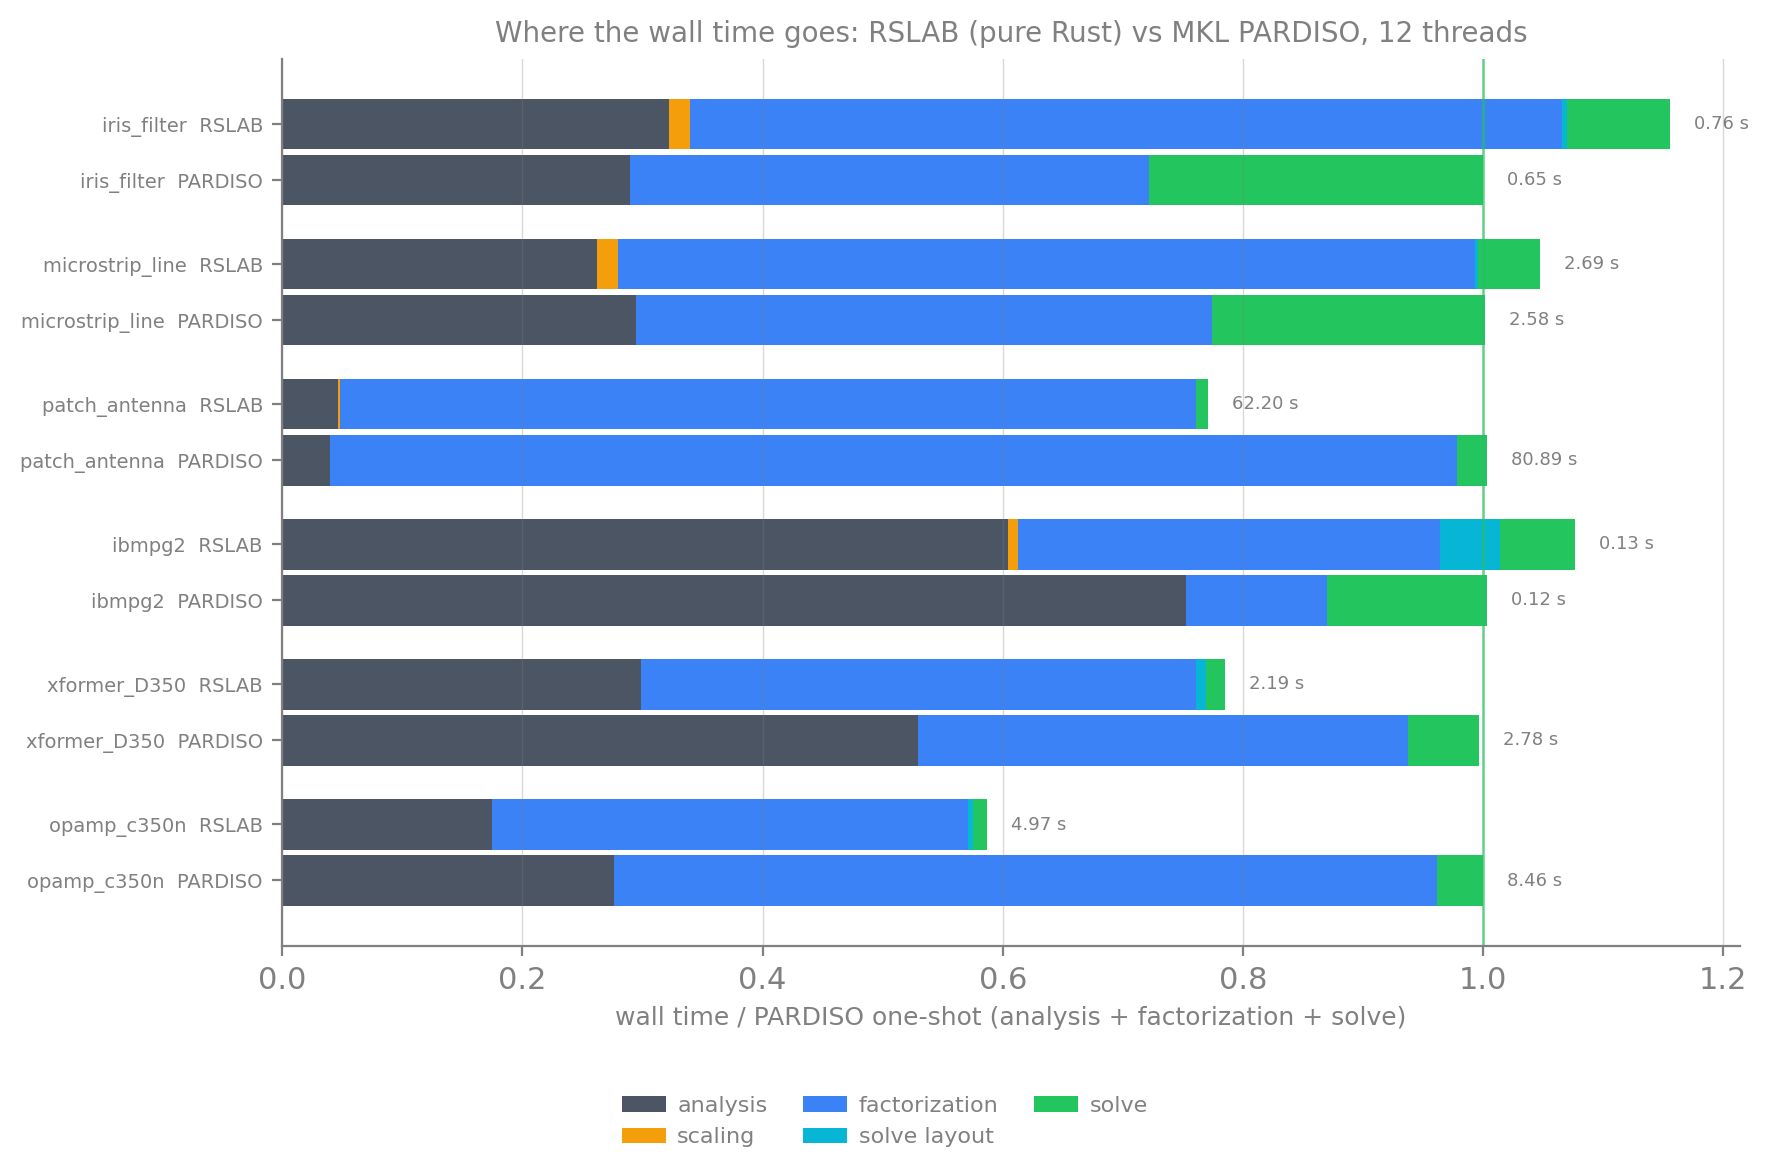
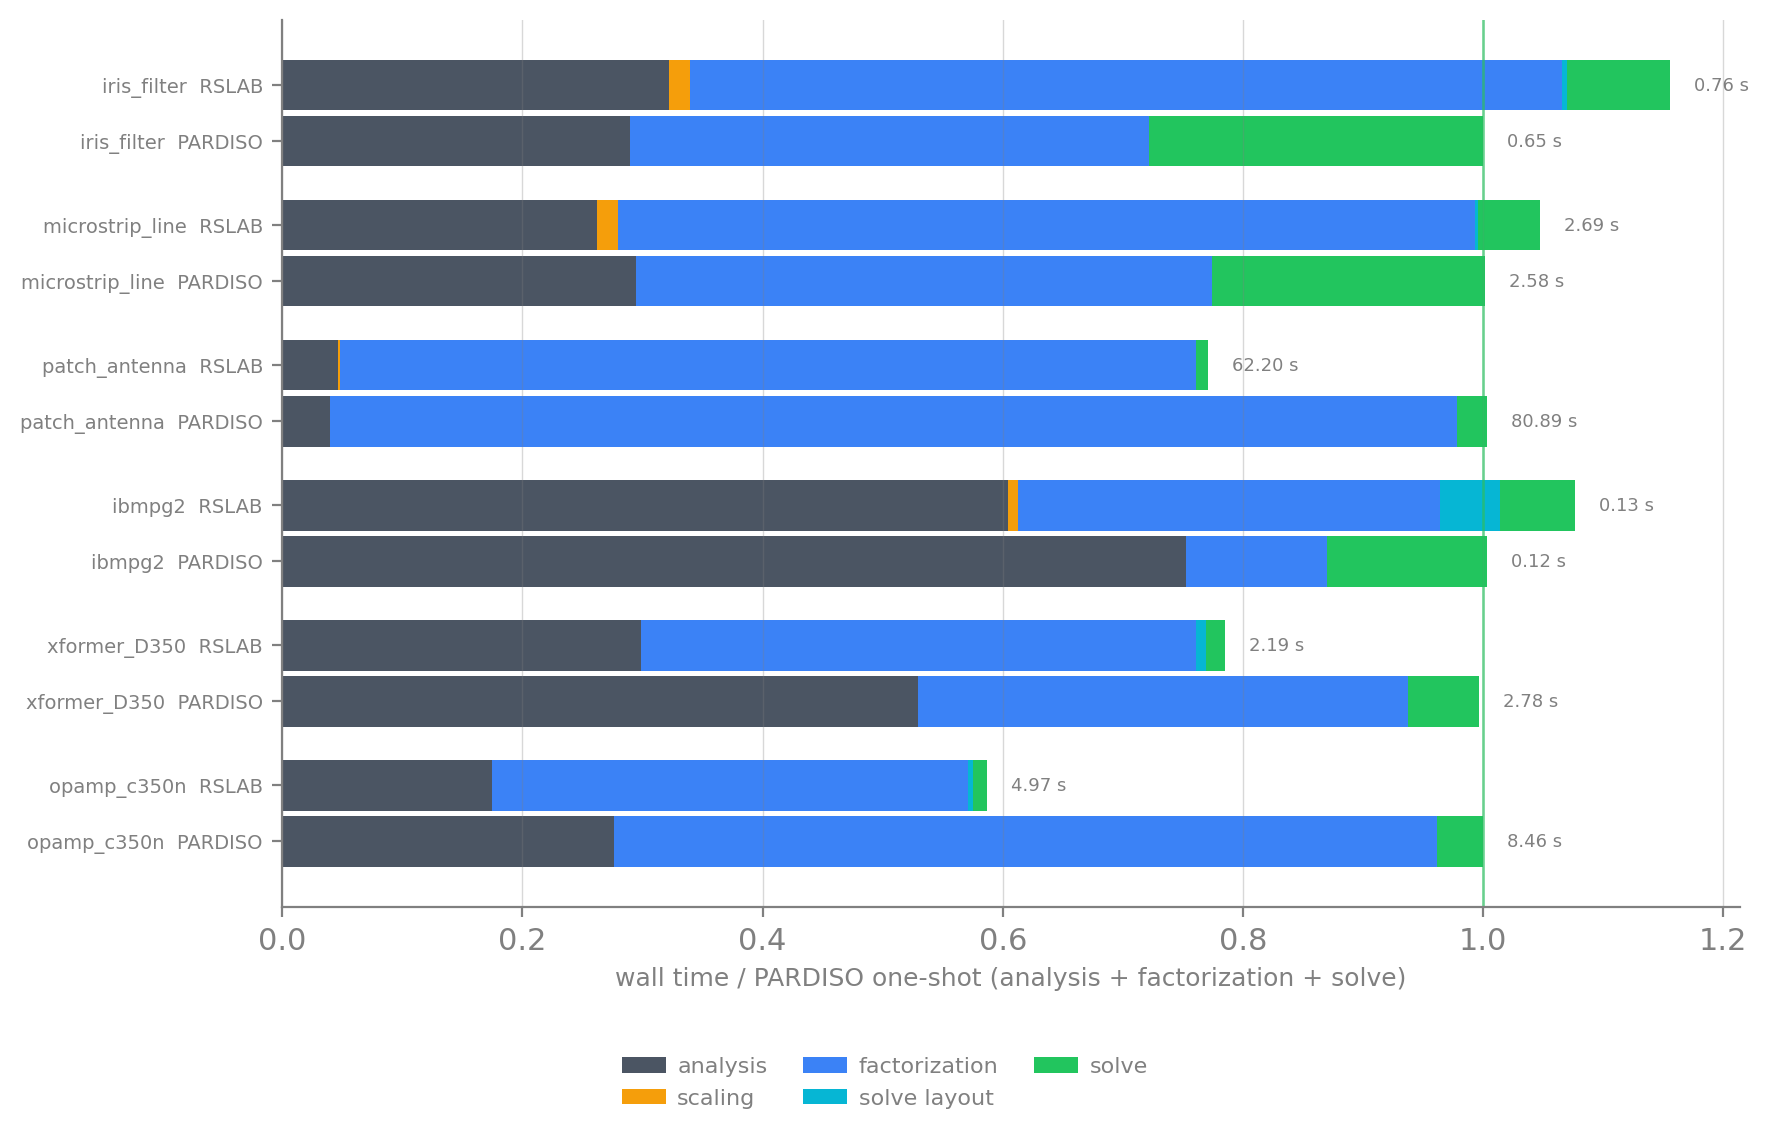
Corpus figures without titles

diff --git a/benches/pardiso_corpus_plot.py b/benches/pardiso_corpus_plot.py
@@ -6,7 +6,7 @@ into ``docs/figures/``:
 * ``pardiso_classes.png`` - wall time divided by PARDISO's per matrix class
   (geomean), for factor, refactor, solve and one-shot,
 * ``pardiso_systems.png`` - factor time and peak memory per system,
-* ``wct_breakdown.png``   - where the wall time goes, per system and solver,
+* ``wct_breakdown.png``   - wall time per stage, per system and solver,
 * ``estimate_accuracy.png`` - RSLAB's memory estimate against the measurement,
 * ``*_social.png``        - share cards of the class and breakdown figures.
 
@@ -212,8 +212,6 @@ def main():
     table, handles = classes(data, ax)
     st.legend_below(fig, handles=handles, labels=[h.get_label() for h in handles], fontsize=8)
     st.save(fig, OUT / "pardiso_classes.png")
-    ax.set_title(f"RSLAB (pure Rust) vs MKL PARDISO, {len(data)} real systems, "
-                 f"{next(iter(data.values()))['rslab']['threads']} threads each", fontsize=10)
     st.card(fig, OUT / "pardiso_classes_social.png")
 
     st.save(systems(data), OUT / "pardiso_systems.png")
@@ -225,7 +223,6 @@ def main():
         handles = breakdown(data, ax, subset)
         st.legend_below(fig, handles=handles, labels=[h.get_label() for h in handles], fontsize=8)
         if out:
-            ax.set_title("Where the wall time goes: RSLAB (pure Rust) vs MKL PARDISO, 12 threads", fontsize=10)
             st.card(fig, OUT / "wct_breakdown_social.png")
         else:
             st.save(fig, OUT / "wct_breakdown.png")
